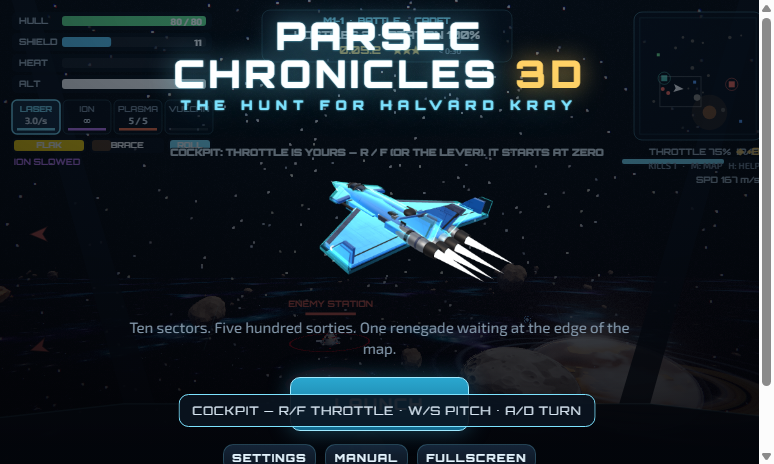
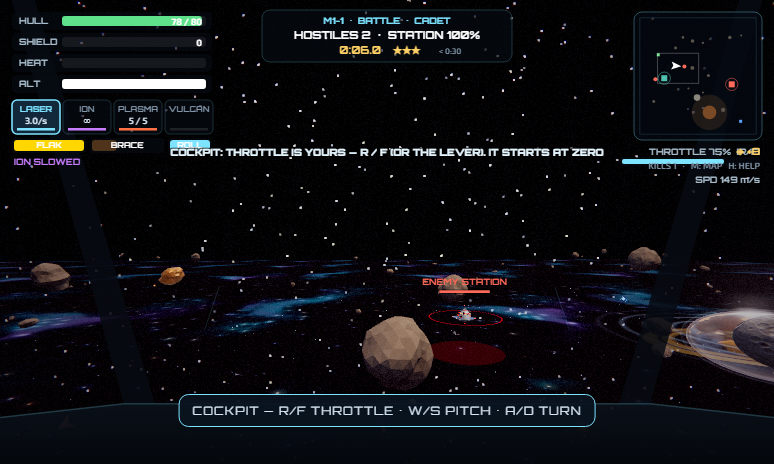
Screenshots: clean gameplay frames (no splash overlay); replace title image with cockpit combat

diff --git a/README.md b/README.md
@@ -26,9 +26,9 @@ into one `index.html`. Works on desktop and mobile.
 - **Anywhere.** Keyboard, gamepad, or a fully customizable touch layout (drag buttons, mirror,
   scale). Procedural music + SFX via Web Audio.
 
-| Diorama command view | Title screen |
+| Diorama command view | Cockpit combat |
 |---|---|
-| ![Diorama](screenshots/diorama.png) | ![Title](screenshots/title.png) |
+| ![Diorama](screenshots/diorama.png) | ![Cockpit combat](screenshots/combat.png) |
 
 ## Controls
 
